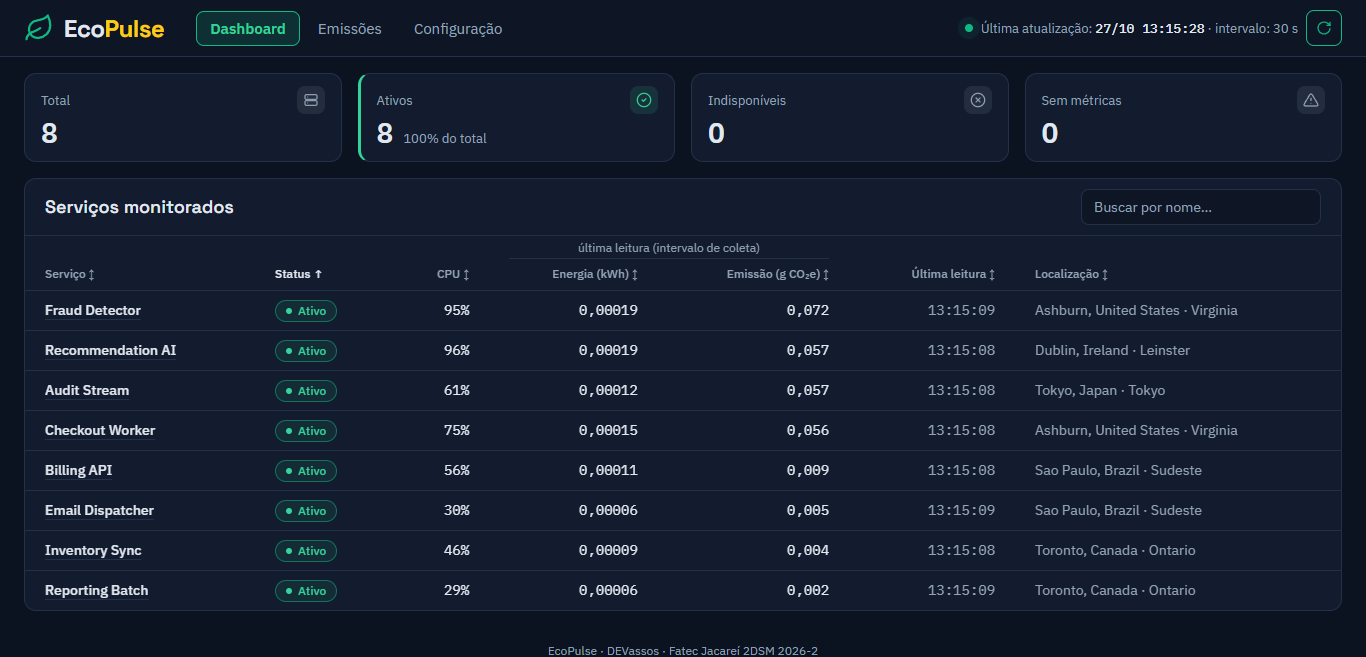
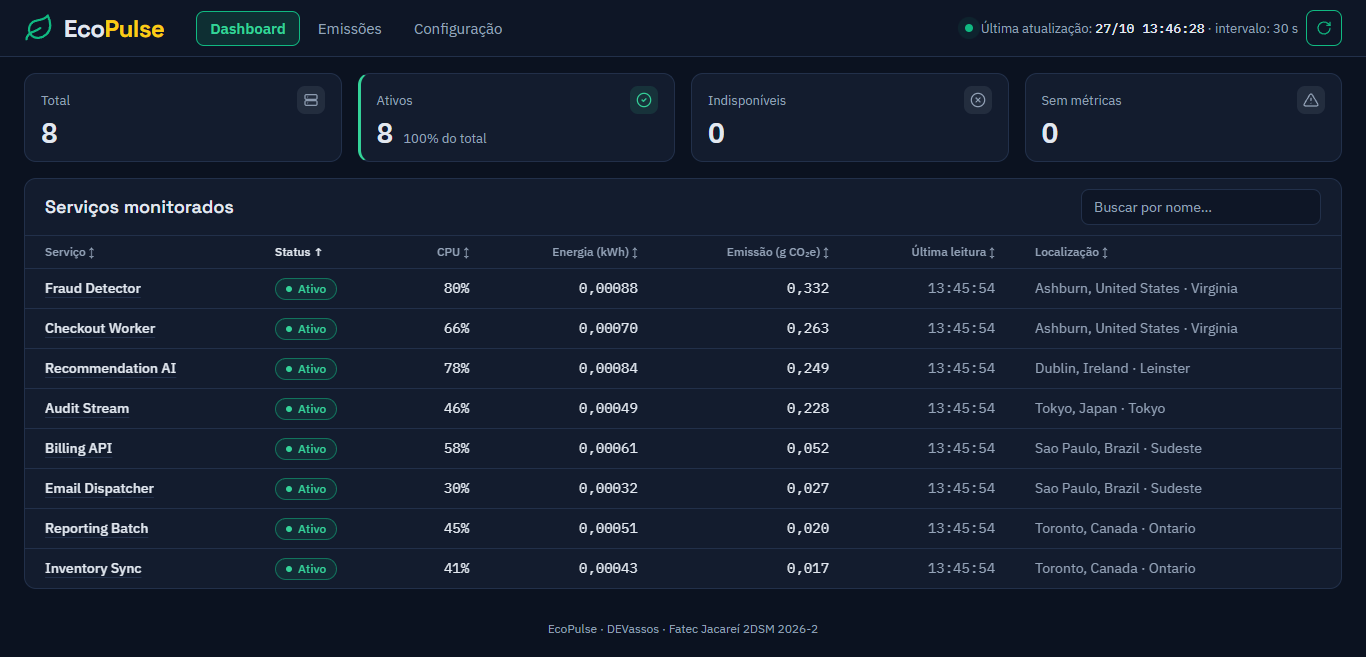
docs(frontend): refaz os prints sem a legenda (#203) [RF09]
frontend/README.md (§ Energia e emissão na tabela) explica por que a
tabela não repete o period da API. Prints refeitos com o backend real em
27/10/2026: 1ª linha em 268 px e 8 linhas visíveis, também com falha.

diff --git a/README.md b/README.md
@@ -60,7 +60,7 @@ O desenvolvimento acontece na branch `develop`; cada funcionalidade entra nesta 
 
   ![Dashboard depois de uma atualização com falha](docs/img/sprint-2-atualizacao-automatica.png)
 
-  _Backend parado em 27/10/2026 (mesmo efeito de `docker compose stop backend`): depois de um intervalo, a faixa laranja compacta diz "Mostrando dados de 13:15:28" e oferece **Tentar novamente**, a tabela continua visível e o selo fica laranja ("Desatualizado desde …") (#203). Sem nenhum dado na tela, aparece o aviso de erro grande._
+  _Backend parado em 27/10/2026 (mesmo efeito de `docker compose stop backend`): depois de um intervalo, a faixa laranja compacta diz "Mostrando dados de 13:46:28" e oferece **Tentar novamente**, as 8 linhas da tabela continuam visíveis e o selo fica laranja ("Desatualizado desde …") (#203). Sem nenhum dado na tela, aparece o aviso de erro grande._
 
 - **RF01, RF02, RF03, RF04 — Descoberta e coleta periódica (#95, #98, #99):** o backend descobre os serviços no agregador de métricas, consulta `/metrics/{id}` e grava o histórico no PostgreSQL; o _worker_ roda em segundo plano e reconcilia serviços que aparecem, ficam indisponíveis ou voltam a exportar métricas.
 

diff --git a/frontend/README.md b/frontend/README.md
@@ -55,7 +55,7 @@ Lidas do `.env` da **raiz** do repositório (modelo em `.env.example`; `envDir: 
 
 - As colunas "Energia (kWh)" e "Emissão (g CO₂e)" mostram o resultado da **última coleta** de cada serviço (cerca de 30 s de operação), calculado pelo backend desde o #139. Sem cálculo disponível (por exemplo, com a API de carbono fora), aparece "—", nunca zero.
 - Energia e emissão têm resolução fixa por coluna (`formatFixed` em `src/utils/format.ts`): kWh com 5 casas e g com 3, nas mesmas unidades da API. As vírgulas ficam alinhadas e o número não muda de tamanho a cada leitura. 0,04 g aparece como **0,040** (antes, "0,0"). Um valor positivo menor que a resolução aparece como "< 0,001" (g) ou "< 0,00001" (kWh), nunca como zero; zero calculado aparece "0,000"; sem cálculo, continua "—".
-- O período da API ("última leitura (intervalo de coleta)") é a legenda sobre essas duas colunas, as únicas a que ele se refere.
+- A tabela não repete o `period` de `GET /api/services`: a coluna **Última leitura** já diz de quando são os valores da linha: os da coleta, não um total.
 
 ## Página Emissões (#190)
 
